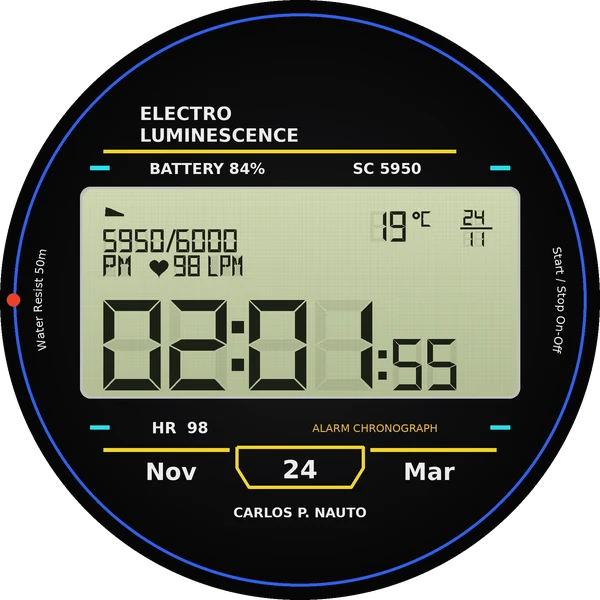
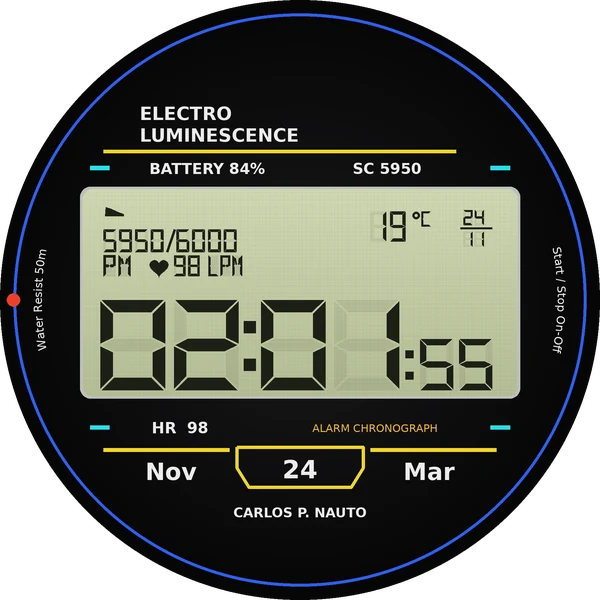
Electro: hora y segundos más anchos, ocupan la pantalla de lado a lado
Claude-Session: https://claude.ai/code/session_01RTdv2VrACuR4VFWJLA57hx

Changed region(s): [[0.15, 0.48, 0.57, 0.66], [0.6, 0.51, 0.84, 0.66]]

diff --git a/android/esferas-de-reloj/electro/src/main/java/cl/carlospnauto/esfera/FaceService.kt b/android/esferas-de-reloj/electro/src/main/java/cl/carlospnauto/esfera/FaceService.kt
@@ -431,11 +431,11 @@ class ElectroRenderer(
         val h = if (is24) "%02d".format(t.hour) else (if (t.hour % 12 == 0) 12 else t.hour % 12).let { "%02d".format(it) }
         val m = "%02d".format(t.minute)
         val dh = r * 0.30f
-        val dw = r * 0.19f
+        val dw = r * 0.215f
         val gap = r * 0.03f
         val colon = r * 0.075f
         val top = Y(0.37f)
-        var x = X(-0.655f)
+        var x = X(-0.665f)
         seg(canvas, h[0], x, top, dw, dh, ink, ghost); x += dw + gap
         seg(canvas, h[1], x, top, dw, dh, ink, ghost); x += dw
         colonDots(canvas, x + colon / 2, top, dh, r * 0.02f, ink); x += colon
@@ -443,7 +443,7 @@ class ElectroRenderer(
         seg(canvas, m[1], x, top, dw, dh, ink, ghost); x += dw
         // Segundos: en bajo consumo quedan en 00 y vuelven a correr al encender la pantalla
         val sh = r * 0.17f
-        val sw = r * 0.095f
+        val sw = r * 0.11f
         val sTop = top + dh - sh
         colonDots(canvas, x + r * 0.035f, sTop, sh, r * 0.013f, ink)
         x += r * 0.07f
